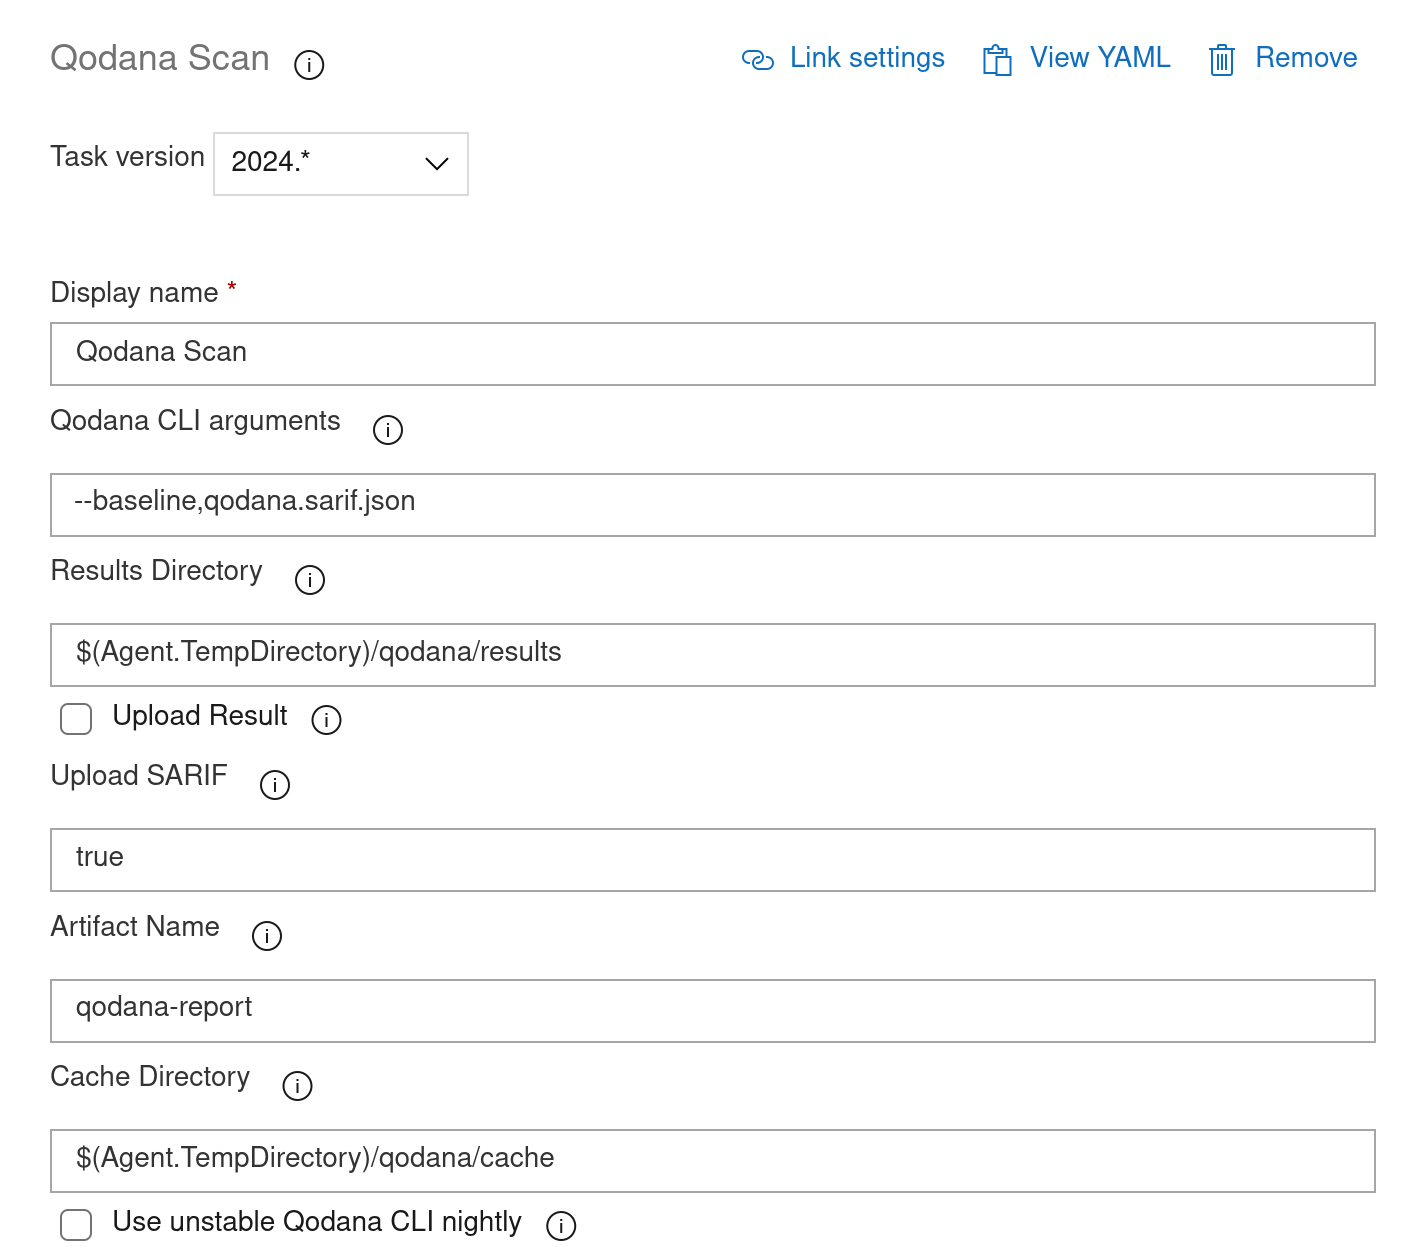
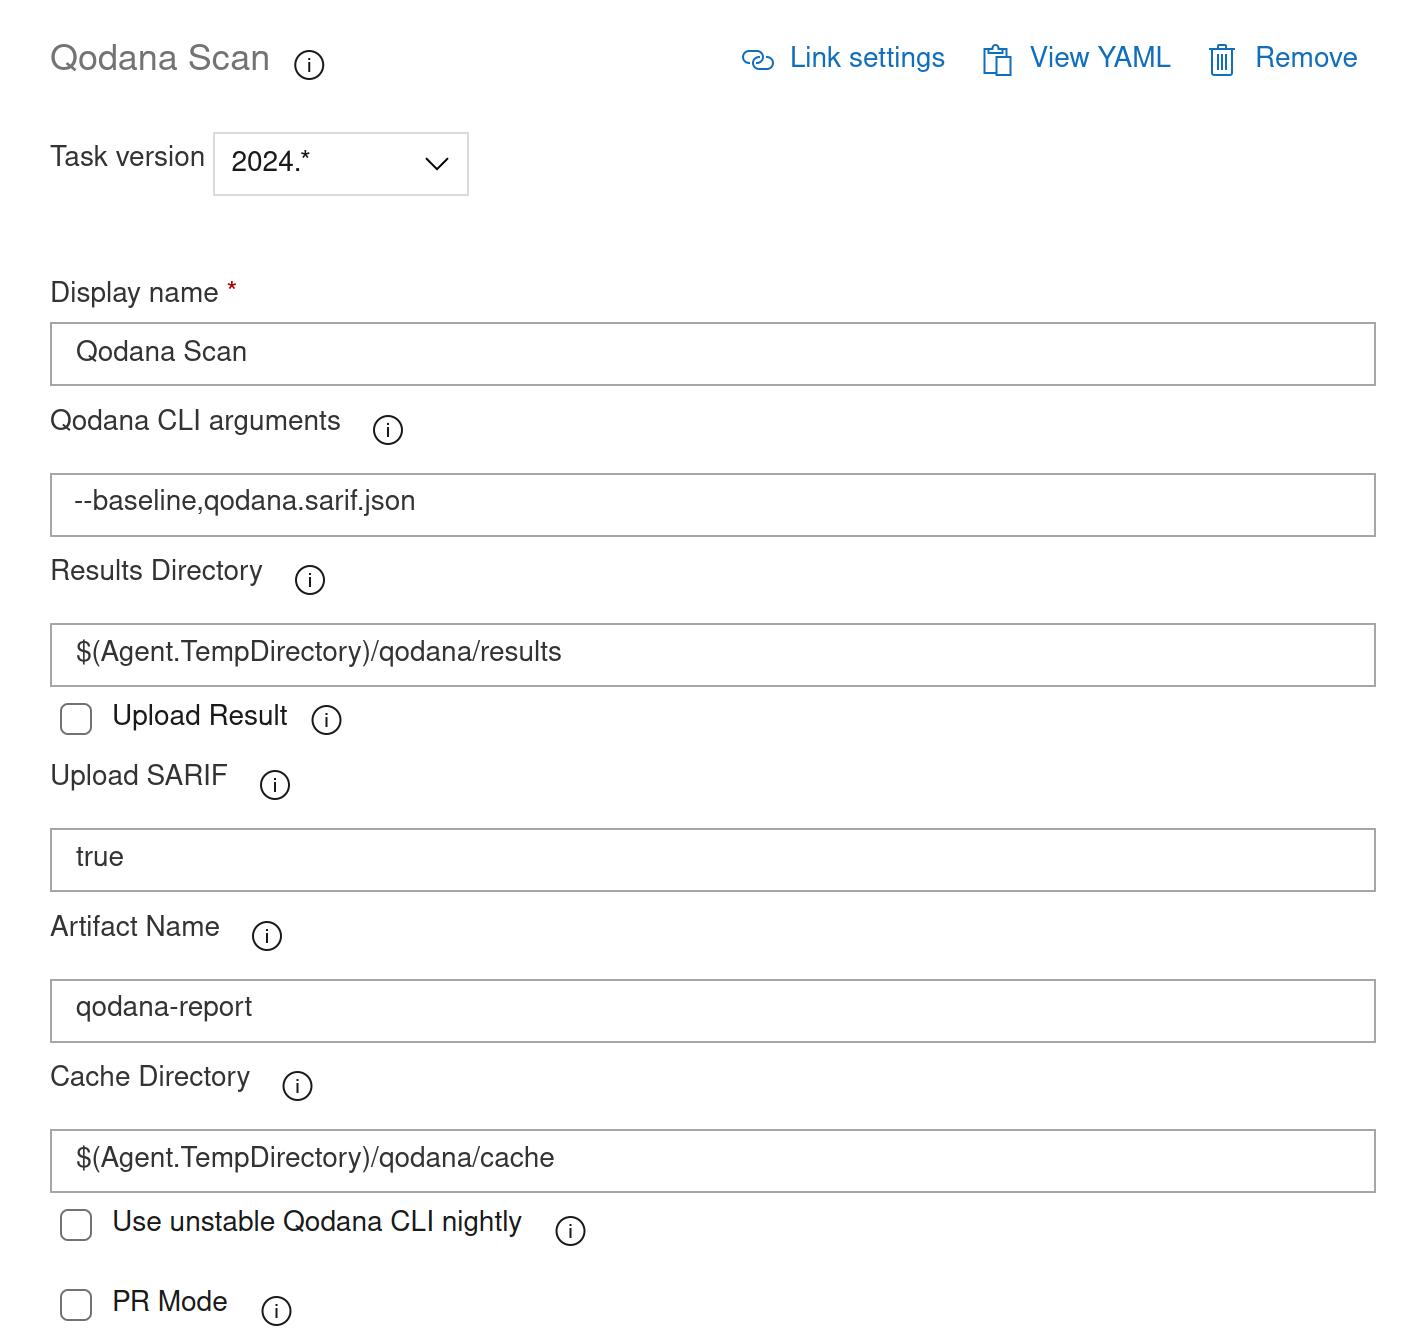
QD-10841 First commit

diff --git a/topics/qodana-azure-pipelines.md b/topics/qodana-azure-pipelines.md
@@ -1,85 +1,157 @@
 [//]: # (title: Azure Pipelines)
 
 <var name="classic-ui-ref" value="https://learn.microsoft.com/en-us/azure/devops/pipelines/get-started/pipelines-get-started?view=azure-devops#define-pipelines-using-the-classic-interface"/>
+<var name="secret-var" value="https://learn.microsoft.com/en-us/azure/devops/pipelines/process/set-secret-variables?view=azure-devops&tabs=yaml%2Cbash#secret-variable-in-the-ui"/>
+<var name="repo-type" value="https://docs.microsoft.com/en-us/azure/devops/pipelines/build/triggers?view=azure-devops#classic-build-pipelines-and-yaml-pipelines"/>
 
 <link-summary>You can use the Qodana Azure Pipelines extension to analyze your code using Qodana.</link-summary>
 
-# Qodana Scan
+Qodana Scan is an Azure Pipelines task packed inside the [Qodana Azure Pipelines extension](https://marketplace.visualstudio.com/items?itemName=JetBrains.qodana) to analyze your code 
+within existing pipelines using Qodana.
 
-Qodana Scan is an Azure Pipelines task
-packed inside the [Qodana Azure Pipelines extension](https://marketplace.visualstudio.com/items?itemName=JetBrains.qodana)
-to scan your code with Qodana.
+## Before you start
 
-## Usage
+1. All configuration examples from this section use a [project token](project-token.md) generated by Qodana Cloud.
+This token is required by the paid %instance% [linters](pricing.md#pricing-linters-licenses), and is optional for using with the
+Community linters. You can see these sections to learn how to generate the project token in the Qodana Cloud UI:
 
-### Basic configuration
+   * The [project setup](set-up-your-project.md) section explains how to get the project token generated while first working with Qodana Cloud.
+   * The [](cloud-projects.topic#cloud-manage-projects) section explains how to create a project in the existing Qodana Cloud organization.
 
-<link-summary>After you've installed the Qodana Azure Pipelines extension to your organization, edit your azure-pipelines.yml file as shown in this section.</link-summary>
-
-After you've installed the [Qodana Azure Pipelines extension](https://marketplace.visualstudio.com/items?itemName=JetBrains.qodana) to your organization, to configure the Qodana Scan task, edit your `azure-pipelines.yml` file:
-
-```yaml
-# Start with a minimal pipeline that you can customize to build and deploy your code.
-# Add steps that build, run tests, deploy, and more:
-# https://aka.ms/yaml
-
-trigger:
-  - main
-
-pool:
-  vmImage: ubuntu-latest
-
-steps:
-  - task: Cache@2  # Not required, but Qodana will open projects with cache faster.
-    inputs:
-      key: '"$(Build.Repository.Name)" | "$(Build.SourceBranchName)" | "$(Build.SourceVersion)"'
-      path: '$(Agent.TempDirectory)/qodana/cache'
-      restoreKeys: |
-        "$(Build.Repository.Name)" | "$(Build.SourceBranchName)"
-        "$(Build.Repository.Name)"
-  - task: QodanaScan@2024
-```
-
-Triggering this job depends on the [repository type that you are using in Azure Pipelines](https://docs.microsoft.com/en-us/azure/devops/pipelines/build/triggers?view=azure-devops#classic-build-pipelines-and-yaml-pipelines).
-
-If you use the classic editor to create pipelines, add the `Qodana Scan` task to the pipeline configuration and then 
-click it. This will open the task configuration as shown below.
-
-<img src="azure-pipelines-task-config.png" width="706" alt="The Qodana Scan task UI config" border-effect="line"/>
-
-The description of these fields is available in the [](#Configuration) chapter of this section.
-
-The task can be run on any OS and x86_64/arm64 CPUs, but it requires the agent to have Docker installed.
-And since most of the Qodana Docker images are Linux-based, the docker daemon must be able to run Linux containers.
-
-Alternatively, you can configure your pipelines using the Classic interface as explained on the 
-[Microsoft documentation portal](%classic-ui-ref%).
-
-### Qodana Cloud
-
-To send analysis results to Qodana Cloud, all you need to do is to specify the `QODANA_TOKEN` environment variable in the build configuration.
-If you are using a Qodana Cloud instance other than https://qodana.cloud/, override it by declaring the `QODANA_ENDPOINT` environment variable.
-
-<snippet id="azure-pipelines-qodana-cloud">
-
-1. In the Azure Pipelines UI, create the `QODANA_TOKEN` [secret variable](https://learn.microsoft.com/en-us/azure/devops/pipelines/process/set-secret-variables?view=azure-devops&tabs=yaml%2Cbash#secret-variable-in-the-ui) and
+   Once you get the project token, in your pipeline UI, create the `QODANA_TOKEN` [secret variable](%secret-var%) and
    save the [project token](cloud-projects.topic#cloud-manage-projects) as its value.
-2. In the Azure pipeline file,
-   add `QODANA_TOKEN` variable to the `env` section of the `QodanaScan` task:
 
-```yaml
-  - task: QodanaScan@2024
-    env:
-      QODANA_TOKEN: $(QODANA_TOKEN)
-```
+   If you are using a Qodana Cloud instance other than `https://qodana.cloud/`, override it by declaring the `QODANA_ENDPOINT` environment variable.
 
-</snippet>
+2. In your Azure DevOps organization, install the [Qodana Azure Pipelines extension](https://marketplace.visualstudio.com/items?itemName=JetBrains.qodana). 
 
-After the token is set for analysis, all Qodana Scan job results will be uploaded to your Qodana Cloud project.
+## Basic configuration
 
-![Qodana Cloud](qodana-cloud.gif)
+<link-summary>After you've installed the Qodana Azure Pipelines extension to your organization, 
+edit your azure-pipelines.yml file as shown in this section.</link-summary>
 
-### SARIF SAST Scans Tab
+> Triggering this job depends on the [repository type](%repo-type%) that you are using in Azure Pipelines.
+{style="note"}
+
+You can run the Qodana Scan task on any OS and x86_64/arm64 CPUs, but it requires the agent to have Docker installed.
+And since most of the Qodana Docker images are Linux-based, the Docker daemon must be able to run Linux containers.
+
+You can configure the Qodana Scan task using either the `azure-pipelines.yml` file or [Classic interface](%classic-ui-ref%).
+
+<tabs group="azure-config-tabs">
+   <tab title="azure-pipelines.yml" group-key="azure-config-tabs-azure-pipelines-yaml">
+      <code-block lang="yaml">
+         # Start with a minimal pipeline that you can customize to build and deploy your code.
+         # Add steps that build, run tests, deploy, and more:
+         # https://aka.ms/yaml
+         &nbsp;
+         trigger:
+           - main
+         &nbsp;
+         pool:
+           vmImage: ubuntu-latest
+         &nbsp;
+         steps:
+           - task: Cache@2  # Not required, but Qodana will open projects with cache faster.
+             inputs:
+               key: '"$(Build.Repository.Name)" | "$(Build.SourceBranchName)" | "$(Build.SourceVersion)"'
+               path: '$(Agent.TempDirectory)/qodana/cache'
+               restoreKeys: |
+                 "$(Build.Repository.Name)" | "$(Build.SourceBranchName)"
+                 "$(Build.Repository.Name)"
+           - task: QodanaScan@2024
+             env:
+               QODANA_TOKEN: $(QODANA_TOKEN)
+           </code-block>
+           <p>Here, <code>QODANA_TOKEN</code> refers to the <a anchor="Before+you+start">project token</a> generated 
+               by Qodana Cloud.</p>
+        </tab>
+        <tab title="Classic editor" group-key="azure-config-tabs-classic-editor">
+            <p>Add the <code>Qodana Scan</code> task to the pipeline configuration and then 
+               click it. This will open the task configuration as shown below.</p>
+            <img src="azure-pipelines-task-config.png" width="706" alt="The Qodana Scan task UI config" border-effect="line"/>
+            <p>The description of these fields is available in the <a anchor="Configuration"/>  chapter of this section.</p>
+        </tab>
+</tabs>
+
+
+## Pull requests
+
+Here is the configuration sample that enables pull request analyses:
+
+
+
+<tabs group="azure-config-tabs">
+   <tab title="azure-pipelines.yml" group-key="azure-config-tabs-azure-pipelines-yaml">
+      <code-block lang="yaml">
+         pr:
+           branches:
+             include:
+               - '*'
+         &nbsp;
+         pool:
+           vmImage: ubuntu-latest
+         &nbsp;
+         steps:
+           - checkout: self
+             fetchDepth: 0
+           - task: QodanaScan@2024
+             env:
+               QODANA_TOKEN: $(QODANA_TOKEN)
+           </code-block>
+           <p>Here, <code>QODANA_TOKEN</code> refers to the <a anchor="Before+you+start">project token</a> generated 
+               by Qodana Cloud.</p>
+        </tab>
+        <tab title="Classic editor" group-key="azure-config-tabs-classic-editor">
+            <p>Enable the <ui-path>PR Mode</ui-path> checkbox to the pipeline configuration and then 
+               click it. This will open the task configuration as shown below.</p>
+            <img src="azure-pipelines-task-config-pr.png" width="706" alt="The Qodana Scan task UI config" border-effect="line"/>
+            <p>The description of these fields is available in the <a anchor="Configuration"/>  chapter of this section.</p>
+        </tab>
+</tabs>
+
+## Quality gate and baseline
+
+<!-- Add an intro about quality gates and baseline -->
+
+<tabs group="azure-config-tabs">
+   <tab title="azure-pipelines.yml" group-key="azure-config-tabs-azure-pipelines-yaml">
+      <code-block lang="yaml">
+         # Start with a minimal pipeline that you can customize to build and deploy your code.
+         # Add steps that build, run tests, deploy, and more:
+         # https://aka.ms/yaml
+         &nbsp;
+         trigger:
+           - main
+         &nbsp;
+         pool:
+           vmImage: ubuntu-latest
+         &nbsp;
+         steps:
+           - task: Cache@2  # Not required, but Qodana will open projects with cache faster.
+             inputs:
+               key: '"$(Build.Repository.Name)" | "$(Build.SourceBranchName)" | "$(Build.SourceVersion)"'
+               path: '$(Agent.TempDirectory)/qodana/cache'
+               restoreKeys: |
+                 "$(Build.Repository.Name)" | "$(Build.SourceBranchName)"
+                 "$(Build.Repository.Name)"
+           - task: QodanaScan@2024
+             env:
+               QODANA_TOKEN: $(QODANA_TOKEN)
+           </code-block>
+           <p>Here, <code>QODANA_TOKEN</code> refers to the <a anchor="Before+you+start">project token</a> generated 
+               by Qodana Cloud.</p>
+        </tab>
+        <tab title="Classic editor" group-key="azure-config-tabs-classic-editor">
+            <p>Add the <code>Qodana Scan</code> task to the pipeline configuration and then 
+               click it. This will open the task configuration as shown below.</p>
+            <img src="azure-pipelines-task-config.png" width="706" alt="The Qodana Scan task UI config" border-effect="line"/>
+            <p>The description of these fields is available in the <a anchor="Configuration"/>  chapter of this section.</p>
+        </tab>
+</tabs>
+
+
+## SARIF SAST Scans Tab
 
 To display Qodana report summary in Azure DevOps UI in 'Scans' tab, install Microsoft DevLabs’ [SARIF SAST Scans Tab](https://marketplace.visualstudio.com/items?itemName=sariftools.scans) extension.
 
